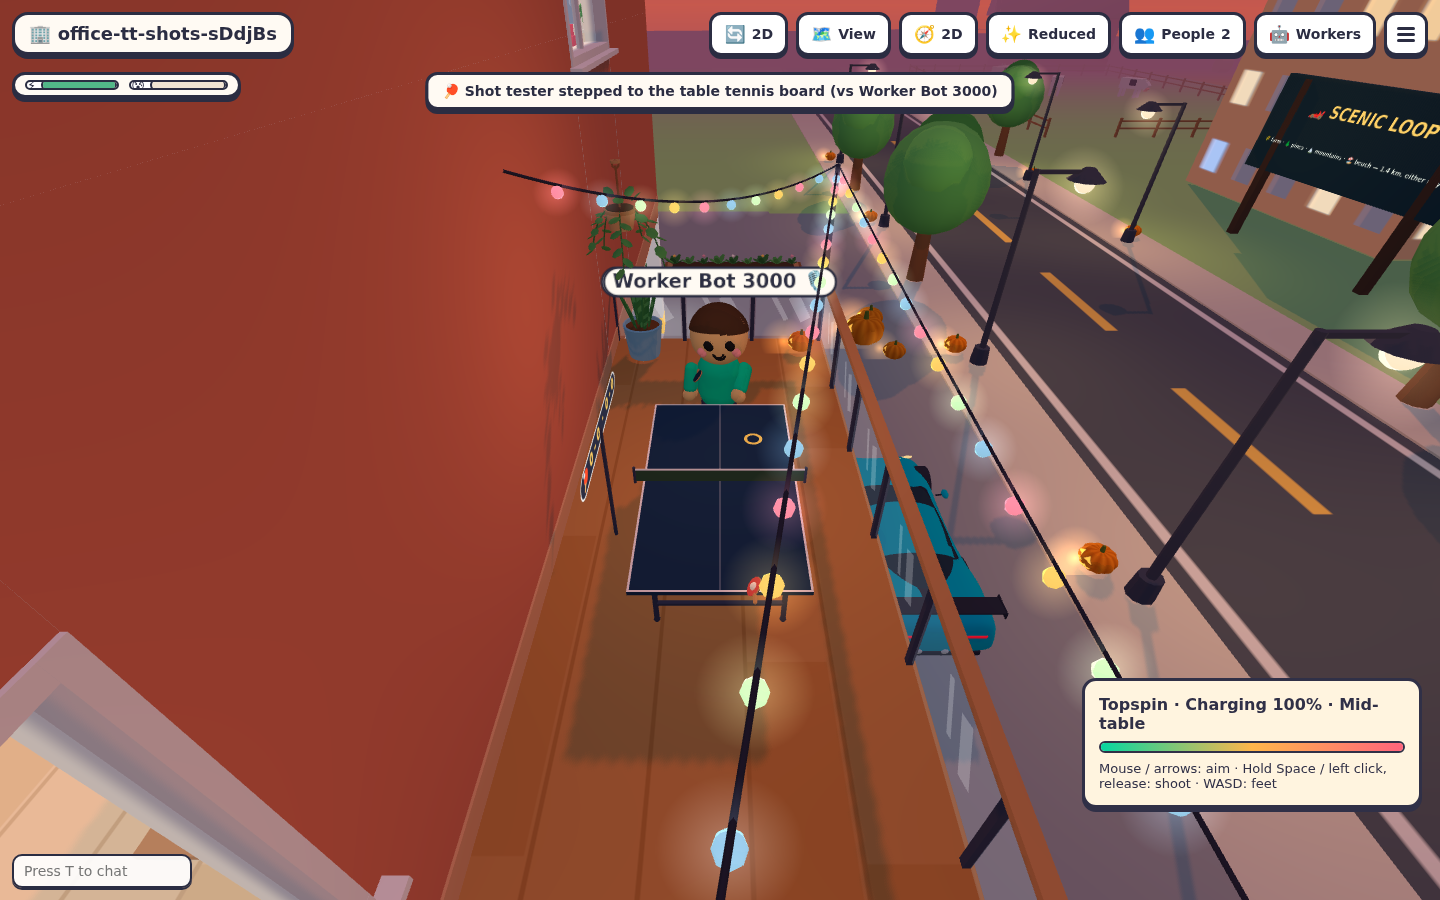
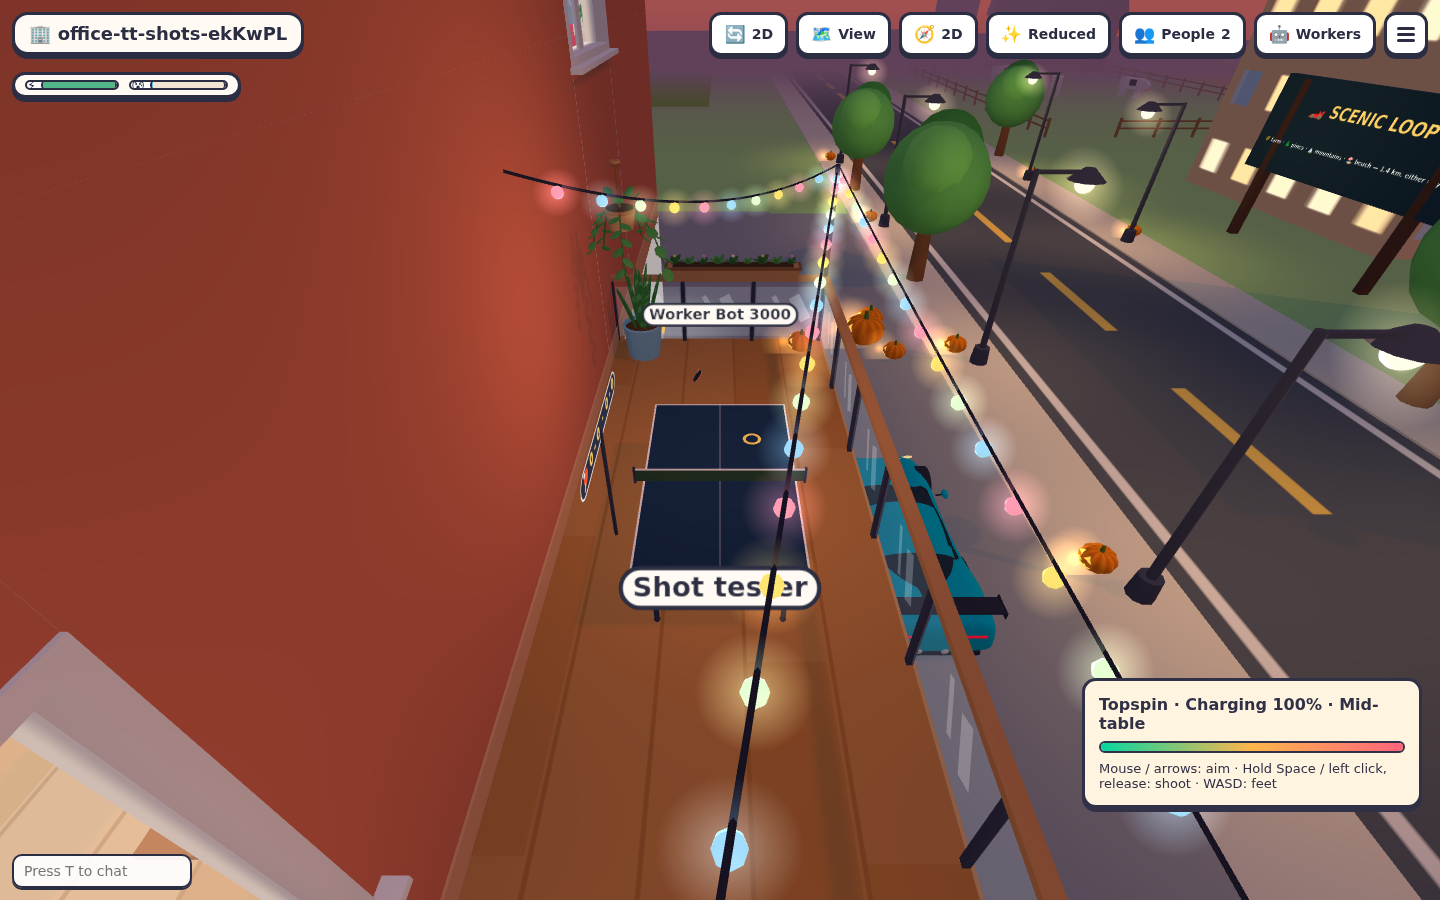
Show only table tennis bats and player names

diff --git a/src/client/features/tabletennis/index.ts b/src/client/features/tabletennis/index.ts
@@ -10,9 +10,11 @@ import { h, toast } from '../../ui/dom';
 import type { PeerInfo } from '../../../shared/protocol';
 import { playTableTennisSound } from './sound';
 import { openTableTennisDialog } from './ui';
-import { standingSpot, TableTennisBats, TableTennisOpponent } from './avatar';
+import { TableTennisBats } from './avatar';
 import { TableTennisControls } from './controls';
 import { TableTennisCamera } from './camera';
+import { TableTennisNames } from './names';
+import type { Object3D } from 'three';
 import { TableTennisController } from './controller';
 import type { TableTennisCourt3D } from './world';
 import { facingTable, PINGPONG_STROKES, PINGPONG_STROKES_ORDER, scoreLine, type BotDifficulty, type PingPongMode, type PingPongPlayer, type PingPongShotKind, type PingPongSide } from '../../../shared/tabletennis';
@@ -27,13 +29,13 @@ declare module '../../world/types' {
 export interface TableTennisDeps {
   standUp?(): void;
   stopWalking?(): void;
+  peerBody?(id: string): Object3D | undefined;
 }
 
 export function installTableTennis(ctx: Ctx, deps: TableTennisDeps = {}) {
   const court = (): TableTennisCourt3D | undefined => ctx.office.tableTennis;
   const STROKES = PINGPONG_STROKES_ORDER;
   let bats: TableTennisBats | undefined;
-  let opponent: TableTennisOpponent | undefined;
 
   const controller = new TableTennisController(
     ctx.player,
@@ -61,17 +63,12 @@ export function installTableTennis(ctx: Ctx, deps: TableTennisDeps = {}) {
   const controls = new TableTennisControls(ctx.player, controller, ctx.scene);
 
   const camera = new TableTennisCamera(ctx.camera, controller);
+  const names = new TableTennisNames(ctx.scene, deps.peerBody);
   ctx.ticks.add('aim', () => {
+    names.update(store.pingpong, store.peers, store.you, ctx.player.pos);
     camera.update();
     if (controller.active) ctx.me.root.visible = false; // Hats must not hide the near court or incoming ball.
   });
-
-  /** Stands the other player up at their end: a worker bot for a bot match, or nobody in PvP
-   * (the other player's own body is in the room with you, at the same place). */
-  function opponentDown() {
-    opponent?.dispose(ctx.scene);
-    opponent = undefined;
-  }
 
   // Register player activity: hide first-person hands/body (table tennis renders 3D paddle)
   ctx.activities.add({
@@ -131,7 +128,7 @@ export function installTableTennis(ctx: Ctx, deps: TableTennisDeps = {}) {
   }
 
   // Play tick
-  ctx.ticks.add('play', ({ dt, t }) => {
+  ctx.ticks.add('play', ({ dt }) => {
     if (controller.active && (ctx.trip() || ctx.activities.running('hanger') || ctx.activities.running('climber') || ctx.player.seat)) {
       controller.stop();
       ctx.net.send({ t: 'pingpong.leave' });
@@ -156,11 +153,9 @@ export function installTableTennis(ctx: Ctx, deps: TableTennisDeps = {}) {
       controller.swinging ? controller.swingProgress : -1,
       controller.oppSwinging ? controller.oppSwingProgress : -1,
     );
-    // The far player moves to the ball, so their body walks about their end too.
-    opponent?.update(dt, t, controller.oppSwinging ? controller.oppSwingProgress : -1, oppAt);
   });
 
-  /** Whoever is on the far side of the net: their body in the room, if they're a person here. */
+  /** The far player's network position, or the bot's controller position. */
   function farPlayer(side: PingPongSide): { peer?: PeerInfo; bot?: PingPongPlayer } {
     const s = store.pingpong;
     const who = side === 'west' ? s.westPlayer : s.eastPlayer;
@@ -170,13 +165,6 @@ export function installTableTennis(ctx: Ctx, deps: TableTennisDeps = {}) {
     return peer && store.onMyFloor(peer) ? { peer } : {};
   }
 
-  /** Stands the worker bot up at its end of the table; in PvP the other player's body is already here. */
-  function syncOpponent() {
-    const { bot } = farPlayer(controller.opponent);
-    if (bot && !opponent) opponent = new TableTennisOpponent(ctx.scene, bot.name, '#06d6a0', controller.opponent);
-    if (!bot && opponent) opponentDown();
-  }
-
   // Listen to remote server events
   ctx.messages.on('pingpong.state', () => {
     const s = store.pingpong;
@@ -184,7 +172,6 @@ export function installTableTennis(ctx: Ctx, deps: TableTennisDeps = {}) {
     // The other player struck it: fly the same ball from where the floor has it, so a rally is the
     // same rally from both ends of the table.
     controller.adopt(s.ball);
-    if (controller.active) syncOpponent();
   });
 
   ctx.messages.on('pingpong.hit', (m) => {
@@ -220,12 +207,10 @@ export function installTableTennis(ctx: Ctx, deps: TableTennisDeps = {}) {
           ctx.net.send({ t: 'pingpong.join', side, mode, botName, difficulty });
           controller.start(side, mode, difficulty);
           bats = new TableTennisBats(court, side);
-          if (mode === 'bot') opponent = new TableTennisOpponent(ctx.scene, botName || 'Worker Bot', '#06d6a0', controller.opponent);
         },
         onLeave() {
           controller.stop();
           bats = undefined;
-          opponentDown();
           ctx.net.send({ t: 'pingpong.leave' });
         },
         onReset() {

diff --git a/src/client/features/tabletennis/avatar.ts b/src/client/features/tabletennis/avatar.ts
@@ -1,74 +1,14 @@
-/**
- * The people at the table, and the bats in their hands.
- *
- * A match used to have nobody on the far side of the net: just a bat hanging in mid air over the
- * table, with your own body hidden, so it looked like no one was playing. Each side now has a body
- * standing at its end of the table, and each bat hangs in its holder's hand and swings with them.
- */
+/** The bats at the table, positioned independently of avatar bodies. */
 import * as THREE from 'three';
 import { facingTable, PINGPONG_SPOTS, type PingPongSide } from '../../../shared/tabletennis';
-import { noOutline } from '../../core/outline';
-import { Person } from '../../world/character';
 
 /** How far a bat swings out as it is struck, and how high it comes (m). */
 const SWING_OUT = 0.1;
 const SWING_UP = 0.02;
-/** How the worker bot at the far end is put together: one of each face, hair and outfit. */
-const LOOK = { skin: 2, hair: 1, style: 0 };
-
 /** Where a player stands at their end of the table, and which way they face it. */
 export function standingSpot(side: PingPongSide): { x: number; z: number; rotY: number } {
   const spot = side === 'west' ? PINGPONG_SPOTS.west : PINGPONG_SPOTS.east;
   return { x: spot.x, z: spot.z, rotY: facingTable(spot.x, spot.z) };
-}
-
-/**
- * The body at the far end: the worker bot you are playing, or a stand-in for the other player while
- * their own body walks over to the table on their screen. It stands at its end, turns to the ball,
- * and swings when the ball is met.
- */
-export class TableTennisOpponent {
-  readonly person: Person;
-  private swing = -1;
-
-  constructor(scene: THREE.Scene, name: string, color: string, side: PingPongSide) {
-    this.person = new Person(name, color, LOOK);
-    this.person.setCostume(null);
-    const at = standingSpot(side);
-    this.person.root.position.set(at.x, 0, at.z);
-    this.person.root.rotation.y = at.rotY;
-    noOutline(this.person.root);
-    scene.add(this.person.root);
-  }
-
-  /**
-   * `progress` is the controller's swing, 0..π while it is under way and -1 when it is not; `at` is
-   * where the other player is standing, which they walk about as they play.
-   */
-  update(dt: number, t: number, progress: number, at: { x: number; z: number }) {
-    this.swing = progress;
-    const pos = this.person.root.position;
-    const dx = at.x - pos.x;
-    const dz = at.z - pos.z;
-    const moved = Math.hypot(dx, dz);
-    pos.x += dx * Math.min(1, dt * 12);
-    pos.z += dz * Math.min(1, dt * 12);
-    this.person.update(dt, t, moved > 0.02, false, 1);
-    const reach = Math.sin(Math.max(0, this.swing));
-    const arm = this.person.rig.armR;
-    arm.rotation.x = -0.7 - reach * 0.9;
-    arm.rotation.z = -0.25 - reach * 0.35;
-    this.person.root.rotation.y = facingTable(pos.x, pos.z);
-  }
-
-  get swinging() {
-    return this.swing >= 0;
-  }
-
-  dispose(scene: THREE.Scene) {
-    scene.remove(this.person.root);
-    this.person.root.traverse((o) => (o as THREE.Mesh).geometry?.dispose());
-  }
 }
 
 /**

diff --git a/src/client/features/tabletennis/names.ts b/src/client/features/tabletennis/names.ts
@@ -1,0 +1,33 @@
+import * as THREE from 'three';
+import { textSprite, disposeSprite } from '../../world/toon';
+import { PINGPONG_SPOTS, type PingPongState } from '../../../shared/tabletennis';
+import type { PeerInfo } from '../../../shared/protocol';
+
+/** A single name per seat, without creating duplicate people at the table. */
+export class TableTennisNames {
+  private labels = new Map<string, { name: string; sprite: THREE.Sprite }>();
+  private hidden = new Map<THREE.Object3D, boolean>();
+  constructor(private scene: THREE.Scene, private peerBody?: (id: string) => THREE.Object3D | undefined) {}
+  update(state: PingPongState, peers: Map<string, PeerInfo>, you: string, local: THREE.Vector3) {
+    const keepBodies = new Set<THREE.Object3D>(), keepLabels = new Set<string>();
+    if (state.active) for (const side of ['west', 'east'] as const) {
+      const player = side === 'west' ? state.westPlayer : state.eastPlayer;
+      if (!player) continue;
+      keepLabels.add(side);
+      const root = player.isBot ? undefined : this.peerBody?.(player.id);
+      if (root) { keepBodies.add(root); if (!this.hidden.has(root)) this.hidden.set(root, root.visible); root.visible = false; }
+      let label = this.labels.get(side);
+      if (label?.name !== player.name) {
+        if (label) { this.scene.remove(label.sprite); disposeSprite(label.sprite); }
+        const sprite = textSprite(player.name, { bg: '#fffaf3', size: 32 });
+        sprite.name = `tabletennis-name-${side}`; this.scene.add(sprite);
+        label = { name: player.name, sprite }; this.labels.set(side, label);
+      }
+      const peer = peers.get(player.id), spot = PINGPONG_SPOTS[side];
+      const at = player.id === you ? local : root?.position ?? peer ?? spot;
+      label.sprite.position.set(at.x, 1.6, at.z);
+    }
+    for (const [root, visible] of this.hidden) if (!keepBodies.has(root)) { root.visible = visible; this.hidden.delete(root); }
+    for (const [side, label] of this.labels) if (!keepLabels.has(side)) { this.scene.remove(label.sprite); disposeSprite(label.sprite); this.labels.delete(side); }
+  }
+}

diff --git a/src/client/main.ts b/src/client/main.ts
@@ -153,7 +153,7 @@ const personOf = (id: string) => parts.peers.remotes.get(id)?.person;
 const reach = () => parts.you.reach();
 parts.golf = installGolf(ctx, { standUp, stopWalking, stopSmoking: () => parts.smoking.stop(), personOf });
 parts.bargames = installBarGames(ctx, { roof: parts.rooftop.roof, standUp, stopWalking, personOf });
-installTableTennis(ctx, { standUp, stopWalking });
+installTableTennis(ctx, { standUp, stopWalking, peerBody: id => parts.peers.remotes.get(id)?.person.root });
 parts.hanging = installHanging(ctx, { gallery: parts.gallery, reach });
 parts.climbing = installClimbing(ctx, { travel: (floorId, how, at) => parts.travel.travel(floorId, how, at), standUp, stopWalking });
 parts.cars = installCars(ctx, { standUp, stopWalking });

diff --git a/docs/controls.md b/docs/controls.md
@@ -103,6 +103,6 @@ At the balcony table, **hold Space or the left mouse button** to charge (up to 0
 
 Shots use the same decaying-spin flight model for their target and actual trajectory. Low contacts need more lift to clear the net, so their maximum pace is limited by clearance. Serves remain assisted launches into the far half; a regulation toss and own-half service bounce are not simulated yet.
 
-For development verification, run `node --import tsx scripts/e2e-tabletennis-shots.mjs`. It checks charging/release, both aim directions, focus cancellation, one-shot mouse input and matching shot values in a second browser. [Desktop](tabletennis-evidence/charged-shot-desktop.png) and [mobile](tabletennis-evidence/charged-shot-mobile.png) captures show the power HUD.
+For development verification, run `node --import tsx scripts/e2e-tabletennis-shots.mjs`. It checks charging/release, both aim directions, focus cancellation, one-shot mouse input, matching shot values in a second browser, and names-only bot/PvP rendering with avatar restoration. [Desktop](tabletennis-evidence/charged-shot-desktop.png) and [mobile](tabletennis-evidence/charged-shot-mobile.png) captures show the power HUD.
 
-Table tennis uses a wide, elevated court camera that keeps the table and high balls in view, independently of shot aim. Leaving the match restores your normal office view.
+Table tennis uses a wide, elevated court camera that keeps the table and high balls in view, independently of shot aim. Only bats and one name per player are shown during a match; player bodies return when the match ends. Leaving the match restores your normal office view.

diff --git a/README.md b/README.md
@@ -508,7 +508,7 @@ Drag to orbit and scroll to zoom. See [Maps](docs/maps.md#office-interiors) for 
 | Esc | Close any window |
 | Ctrl + [ | Send Esc to a terminal, to close a menu like Claude's `/skills` or interrupt Claude (or **⎋ Esc** in its header) |
 
-Table tennis uses a wide, elevated court camera that keeps the table and high balls in view, independently of shot aim. Leaving the match restores your normal office view.
+Table tennis uses a wide, elevated court camera that keeps the table and high balls in view, independently of shot aim. Only bats and one name per player are shown during a match; player bodies return when the match ends. Leaving the match restores your normal office view.
 
 The full list is in [docs/controls.md](docs/controls.md).
 
